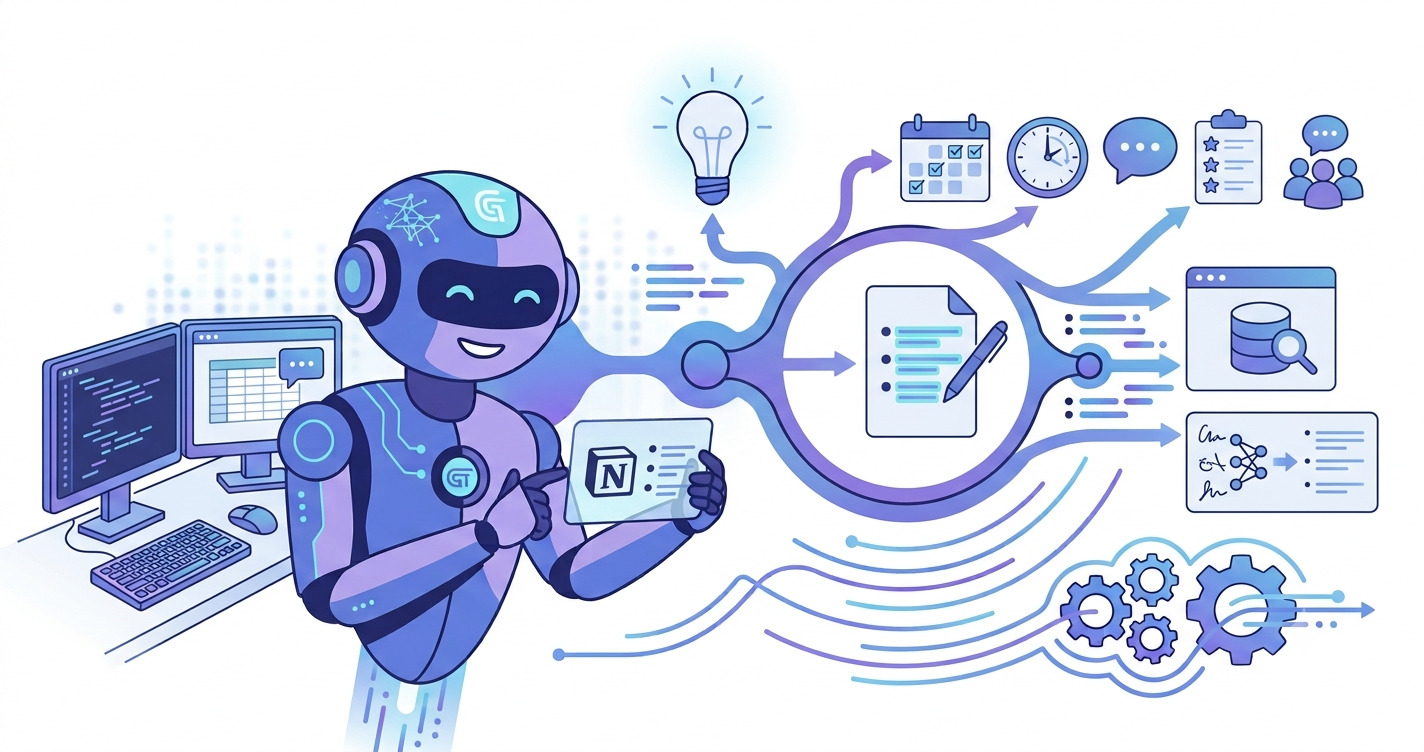
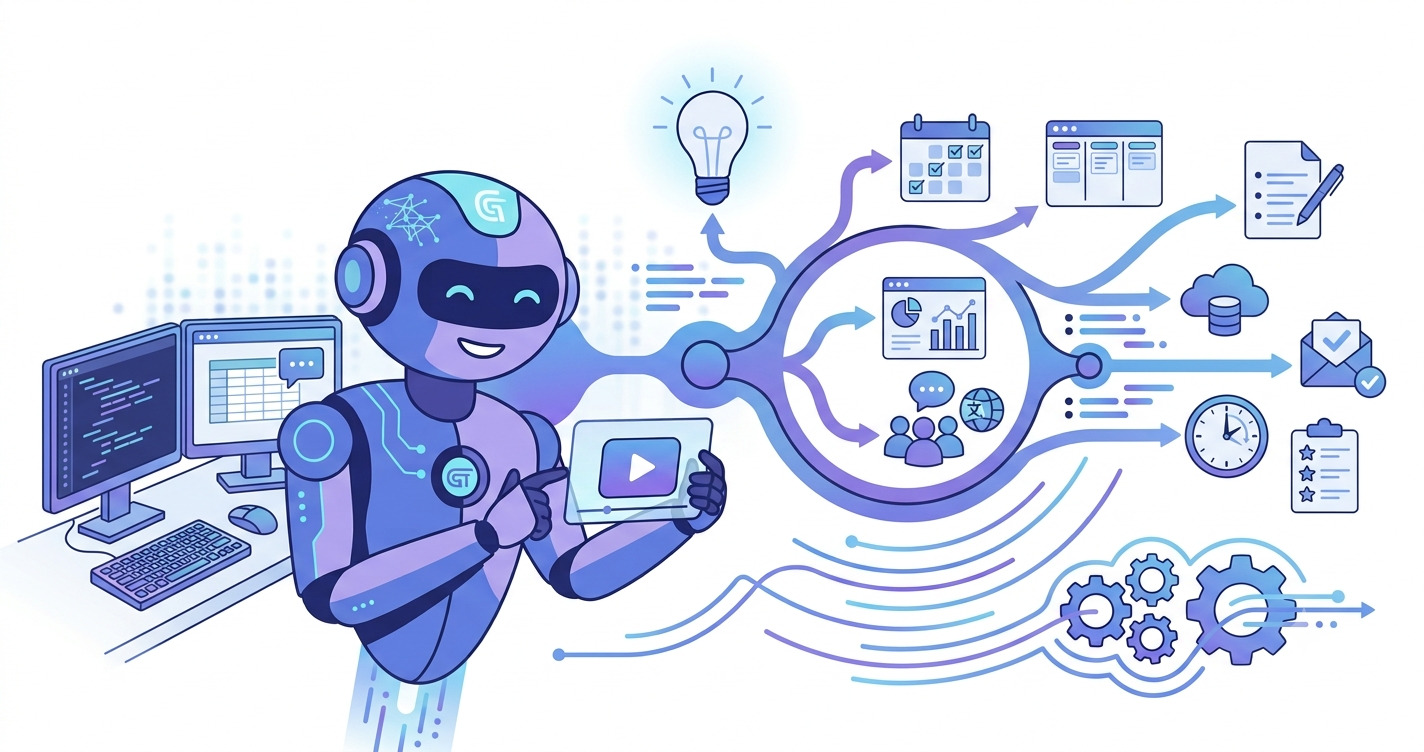
refactor(blog): remove duplicate articles and clean up blog content

Changed region(s): [[0.6798, 0.1529, 0.9888, 0.7035], [0.5562, 0.367, 0.7107, 0.6423], [0.4017, 0.5811, 0.4944, 0.7035]]

diff --git a/src/data/blogPosts.ts b/src/data/blogPosts.ts
@@ -167,148 +167,8 @@ Choosing the right AI tools can save several hours every week while improving th
 The future of productivity belongs to people who know how to effectively combine AI with their daily workflow.
 `,
   },
-  {
-  slug: "ai-note-taking-tools",
-
-  title: "Best AI Note Taking Tools in 2026",
-
-  description:
-    "Discover the best AI note taking tools for students, professionals, and researchers. Learn how AI helps you organize notes, summarize lectures, and boost productivity.",
-
-  date: "July 2026",
-
-  readTime: "8 min read",
-
-  author: "BriefTube Team",
-
-  image: "/blog/ai-note-taking-tools.jpg",
-
-  tags: ["AI", "Notes", "Students", "Productivity"],
-
-  content: `
-Taking notes has always been an important part of learning, but Artificial Intelligence is changing how we capture, organize, and review information.
-
-Modern AI note taking tools can summarize long lectures, extract key points from YouTube videos, organize meeting notes, and even create study guides automatically. Whether you're a student preparing for exams, a professional attending meetings, or a content creator researching new topics, AI can save hours every week.
-
-One of the biggest advantages of AI note taking is speed. Instead of writing every detail manually, AI identifies the most important information and presents it in a structured format that is easier to review later.
-
-## Why AI Note Taking Matters
-
-Traditional note taking requires constant attention. Missing a single important point during a lecture or meeting can make it difficult to understand the topic later.
-
-AI solves this problem by:
-
-• Capturing important information automatically
-
-• Summarizing long content into concise notes
-
-• Organizing notes into logical sections
-
-• Highlighting key concepts and action items
-
-• Making revision much faster
-
-These features allow users to spend more time understanding information instead of simply copying it.
-
-## Best AI Note Taking Tools
-
-Here are some of the most popular AI note taking tools available today.
-
-### 1. BriefTube
-
-BriefTube helps users summarize YouTube videos into clean, structured notes within seconds.
-
-Instead of watching an hour-long educational video, users receive concise summaries with the main ideas, making learning faster and more efficient.
-
-BriefTube is especially useful for:
-
-• Students
-
-• Developers
-
-• Researchers
-
-• Professionals
-
-• Self learners
-
-### 2. Notion AI
-
-Notion AI helps users generate notes, summarize documents, brainstorm ideas, and organize knowledge inside their workspace.
-
-It works well for both personal productivity and team collaboration.
-
-### 3. Microsoft Copilot
-
-Microsoft Copilot integrates with Microsoft Office and can summarize meetings, emails, Word documents, and presentations.
-
-It's an excellent choice for business users.
-
-### 4. Google Gemini
-
-Gemini can summarize large amounts of information, answer questions, and generate structured notes from complex topics.
-
-Many educational platforms now use Gemini-powered features.
-
-### 5. ChatGPT
-
-ChatGPT remains one of the most flexible AI assistants for creating study notes, rewriting content, brainstorming, and explaining difficult concepts.
-
-## How Students Benefit
-
-Students often spend several hours watching lectures and reading textbooks.
-
-AI note taking tools help by:
-
-• Creating revision notes
-
-• Summarizing lectures
-
-• Explaining difficult concepts
-
-• Organizing study material
-
-• Saving valuable preparation time
-
-This allows students to focus on understanding concepts instead of spending hours writing notes.
-
-## AI Note Taking for Professionals
-
-Professionals can also benefit significantly.
-
-Common use cases include:
-
-• Meeting summaries
-
-• Project documentation
-
-• Client notes
-
-• Research summaries
-
-• Action item tracking
-
-Instead of manually reviewing long meetings, AI instantly creates organized summaries that are easy to share with teammates.
-
-## Can AI Replace Manual Notes?
-
-Not completely.
-
-The best strategy is combining AI-generated summaries with your own personal notes.
-
-AI handles repetitive work, while your own notes help reinforce understanding and memory.
-
-This combination produces much better learning outcomes than relying on either method alone.
-
-## Final Thoughts
-
-AI note taking tools are becoming an essential part of modern learning and productivity.
-
-Whether you're studying for exams, attending online courses, watching YouTube tutorials, or managing professional meetings, AI can dramatically reduce the time required to capture and organize information.
-
-If you frequently learn from YouTube, BriefTube provides one of the fastest ways to convert long educational videos into concise, structured notes that are easy to review anytime.
-`,
-},
+  
+ 
 {
   slug: "youtube-transcript-generator",
 
@@ -917,74 +777,7 @@ AI note taking tools help learners spend less time writing and more time underst
 Using the right AI assistant can dramatically improve productivity and learning efficiency.
 `,
 },
-{
-  slug: "youtube-transcript-generator",
 
-  title: "How to Generate YouTube Transcripts Instantly",
-
-  description:
-    "Learn how AI generates accurate YouTube transcripts and why transcripts improve learning, accessibility, and productivity.",
-
-  date: "July 2026",
-
-  readTime: "6 min read",
-
-  author: "BriefTube Team",
-
-  image: "/blog/youtube-transcript-generator.jpg",
-
-  tags: ["YouTube", "Transcript", "AI", "Learning"],
-
-  content: `
-YouTube transcripts make educational videos easier to understand and search.
-
-Instead of replaying videos multiple times, users can quickly read the transcript and find exactly what they need.
-
-Artificial Intelligence has made transcript generation faster and more accurate than ever before.
-
-## Why Use Transcripts?
-
-Transcripts improve learning by allowing readers to scan information quickly.
-
-They also help creators improve accessibility.
-
-## Benefits
-
-### Faster Learning
-
-Reading is often faster than watching.
-
-### Better Search
-
-Users can instantly locate keywords inside long videos.
-
-### Accessibility
-
-Transcripts help viewers with hearing impairments.
-
-## How AI Generates Transcripts
-
-Modern AI models convert speech into text using advanced speech recognition.
-
-The transcript is then cleaned and formatted into readable paragraphs.
-
-## How BriefTube Helps
-
-BriefTube combines transcripts with AI summaries.
-
-Instead of reading thousands of words, users receive concise notes highlighting only the most important information.
-
-## Future
-
-AI transcripts will continue becoming more accurate while supporting hundreds of languages.
-
-## Final Thoughts
-
-YouTube transcripts are an excellent learning tool.
-
-Combining transcripts with AI summaries provides one of the fastest ways to consume educational content.
-`,
-},
 {
   slug: "youtube-learning-tips",
 